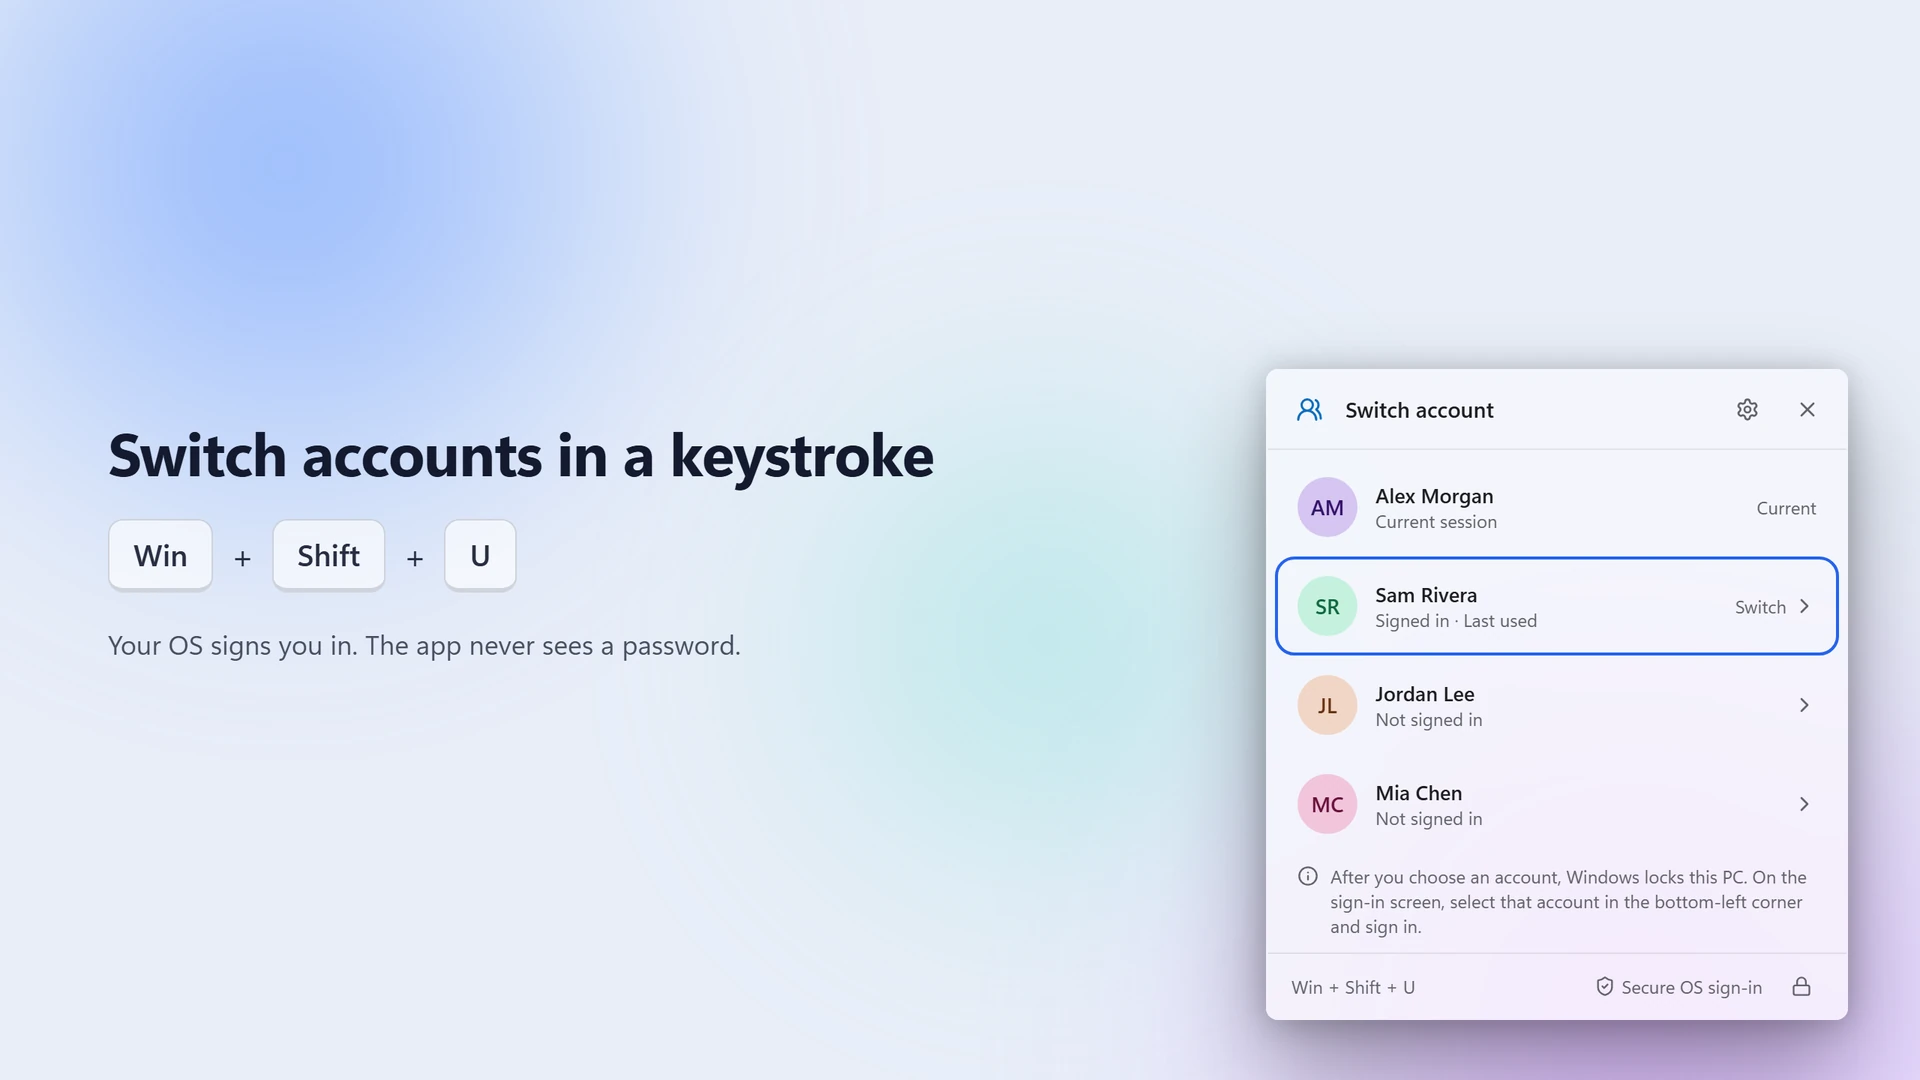
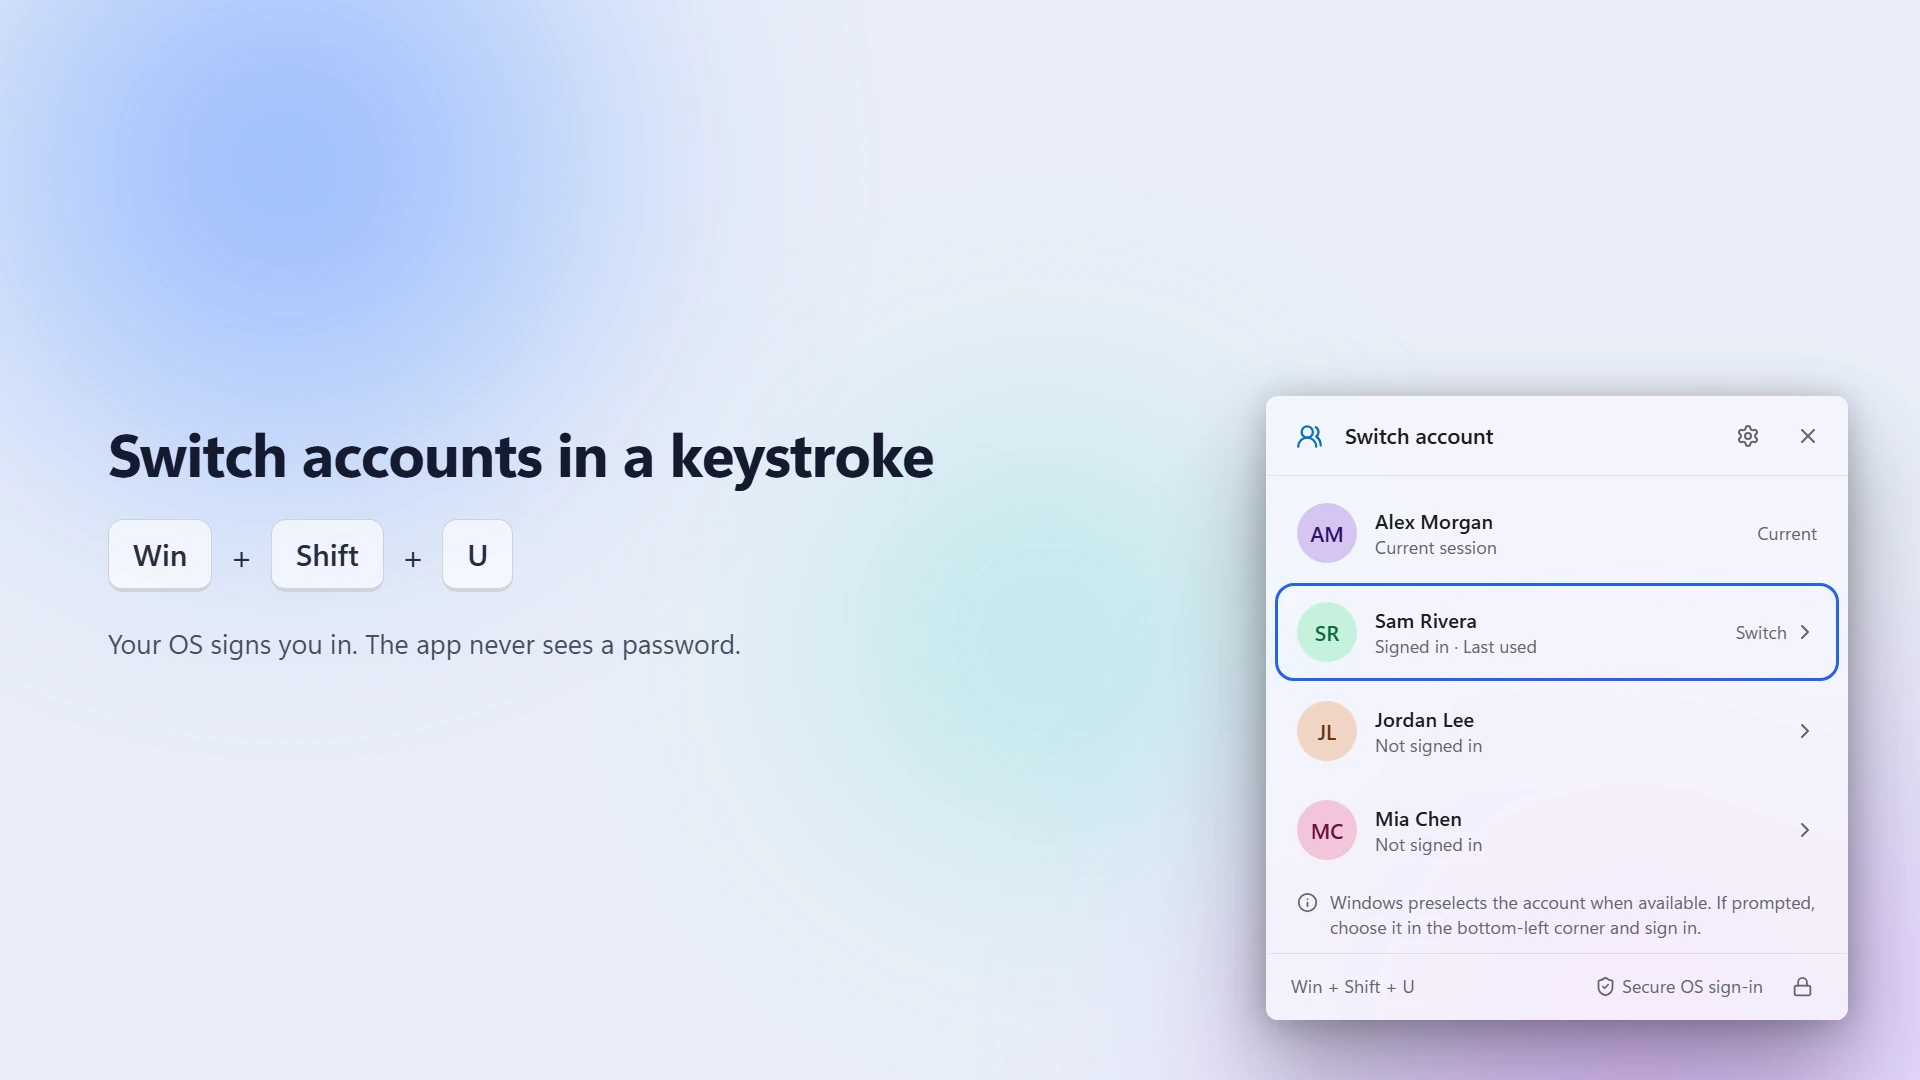
docs: refresh readme screenshots with the current sign-in hint

diff --git a/src/preview/scene.ts b/src/preview/scene.ts
@@ -66,16 +66,23 @@ export const sampleSnapshot: AccountSnapshot = {
 
 /** Shows the state after returning from Sam's account: listed first and marked as last used. */
 export function sampleSnapshotFor(scene: Scene): AccountSnapshot {
-  if (!scene.recent) return sampleSnapshot;
   return {
     ...sampleSnapshot,
-    entries: sampleSnapshot.entries.map((entry) =>
-      entry.accountId === "sample:2" ? { ...entry, recent: true } : entry,
-    ),
+    entries: sampleSnapshot.entries.map((entry) => {
+      const recent = scene.recent && entry.accountId === "sample:2";
+      if (scene.notice && !entry.isCurrentUser) {
+        return {
+          ...entry,
+          recent,
+          availability: { mode: "unavailable", reason: "remote_session" },
+        };
+      }
+      return recent ? { ...entry, recent } : entry;
+    }),
   };
 }
 
-export const sampleCapabilities: PlatformCapabilities = {
+const sampleCapabilities: PlatformCapabilities = {
   platform: "windows",
   sessionDiscovery: { status: "available" },
   accountDirectory: { status: "available" },
@@ -85,6 +92,15 @@ export const sampleCapabilities: PlatformCapabilities = {
   lockScreen: { status: "available" },
   backdrop: "acrylic",
 };
+
+/** A remote session reports system sign-in as unavailable, like the Windows provider. */
+export function sampleCapabilitiesFor(scene: Scene): PlatformCapabilities {
+  if (!scene.notice) return sampleCapabilities;
+  return {
+    ...sampleCapabilities,
+    systemSignIn: { status: "unavailable", reason: "remote_session" },
+  };
+}
 
 export function sampleSettings(scene: Scene): SettingsView {
   return {

diff --git a/src/preview/main.tsx b/src/preview/main.tsx
@@ -6,7 +6,7 @@ import "../styles/index.css";
 import "./preview.css";
 import "./video.css";
 import { heightStore } from "./heightStore";
-import { readScene, sampleCapabilities, sampleSettings, sampleSnapshotFor } from "./scene";
+import { readScene, sampleCapabilitiesFor, sampleSettings, sampleSnapshotFor } from "./scene";
 import { Stage } from "./Stage";
 import { VideoStage } from "./VideoStage";
 
@@ -23,7 +23,7 @@ mockIPC(
       case "get_accounts":
         return sampleSnapshotFor(scene);
       case "get_capabilities":
-        return sampleCapabilities;
+        return sampleCapabilitiesFor(scene);
       case "get_settings":
         return sampleSettings(scene);
       case "save_settings":
